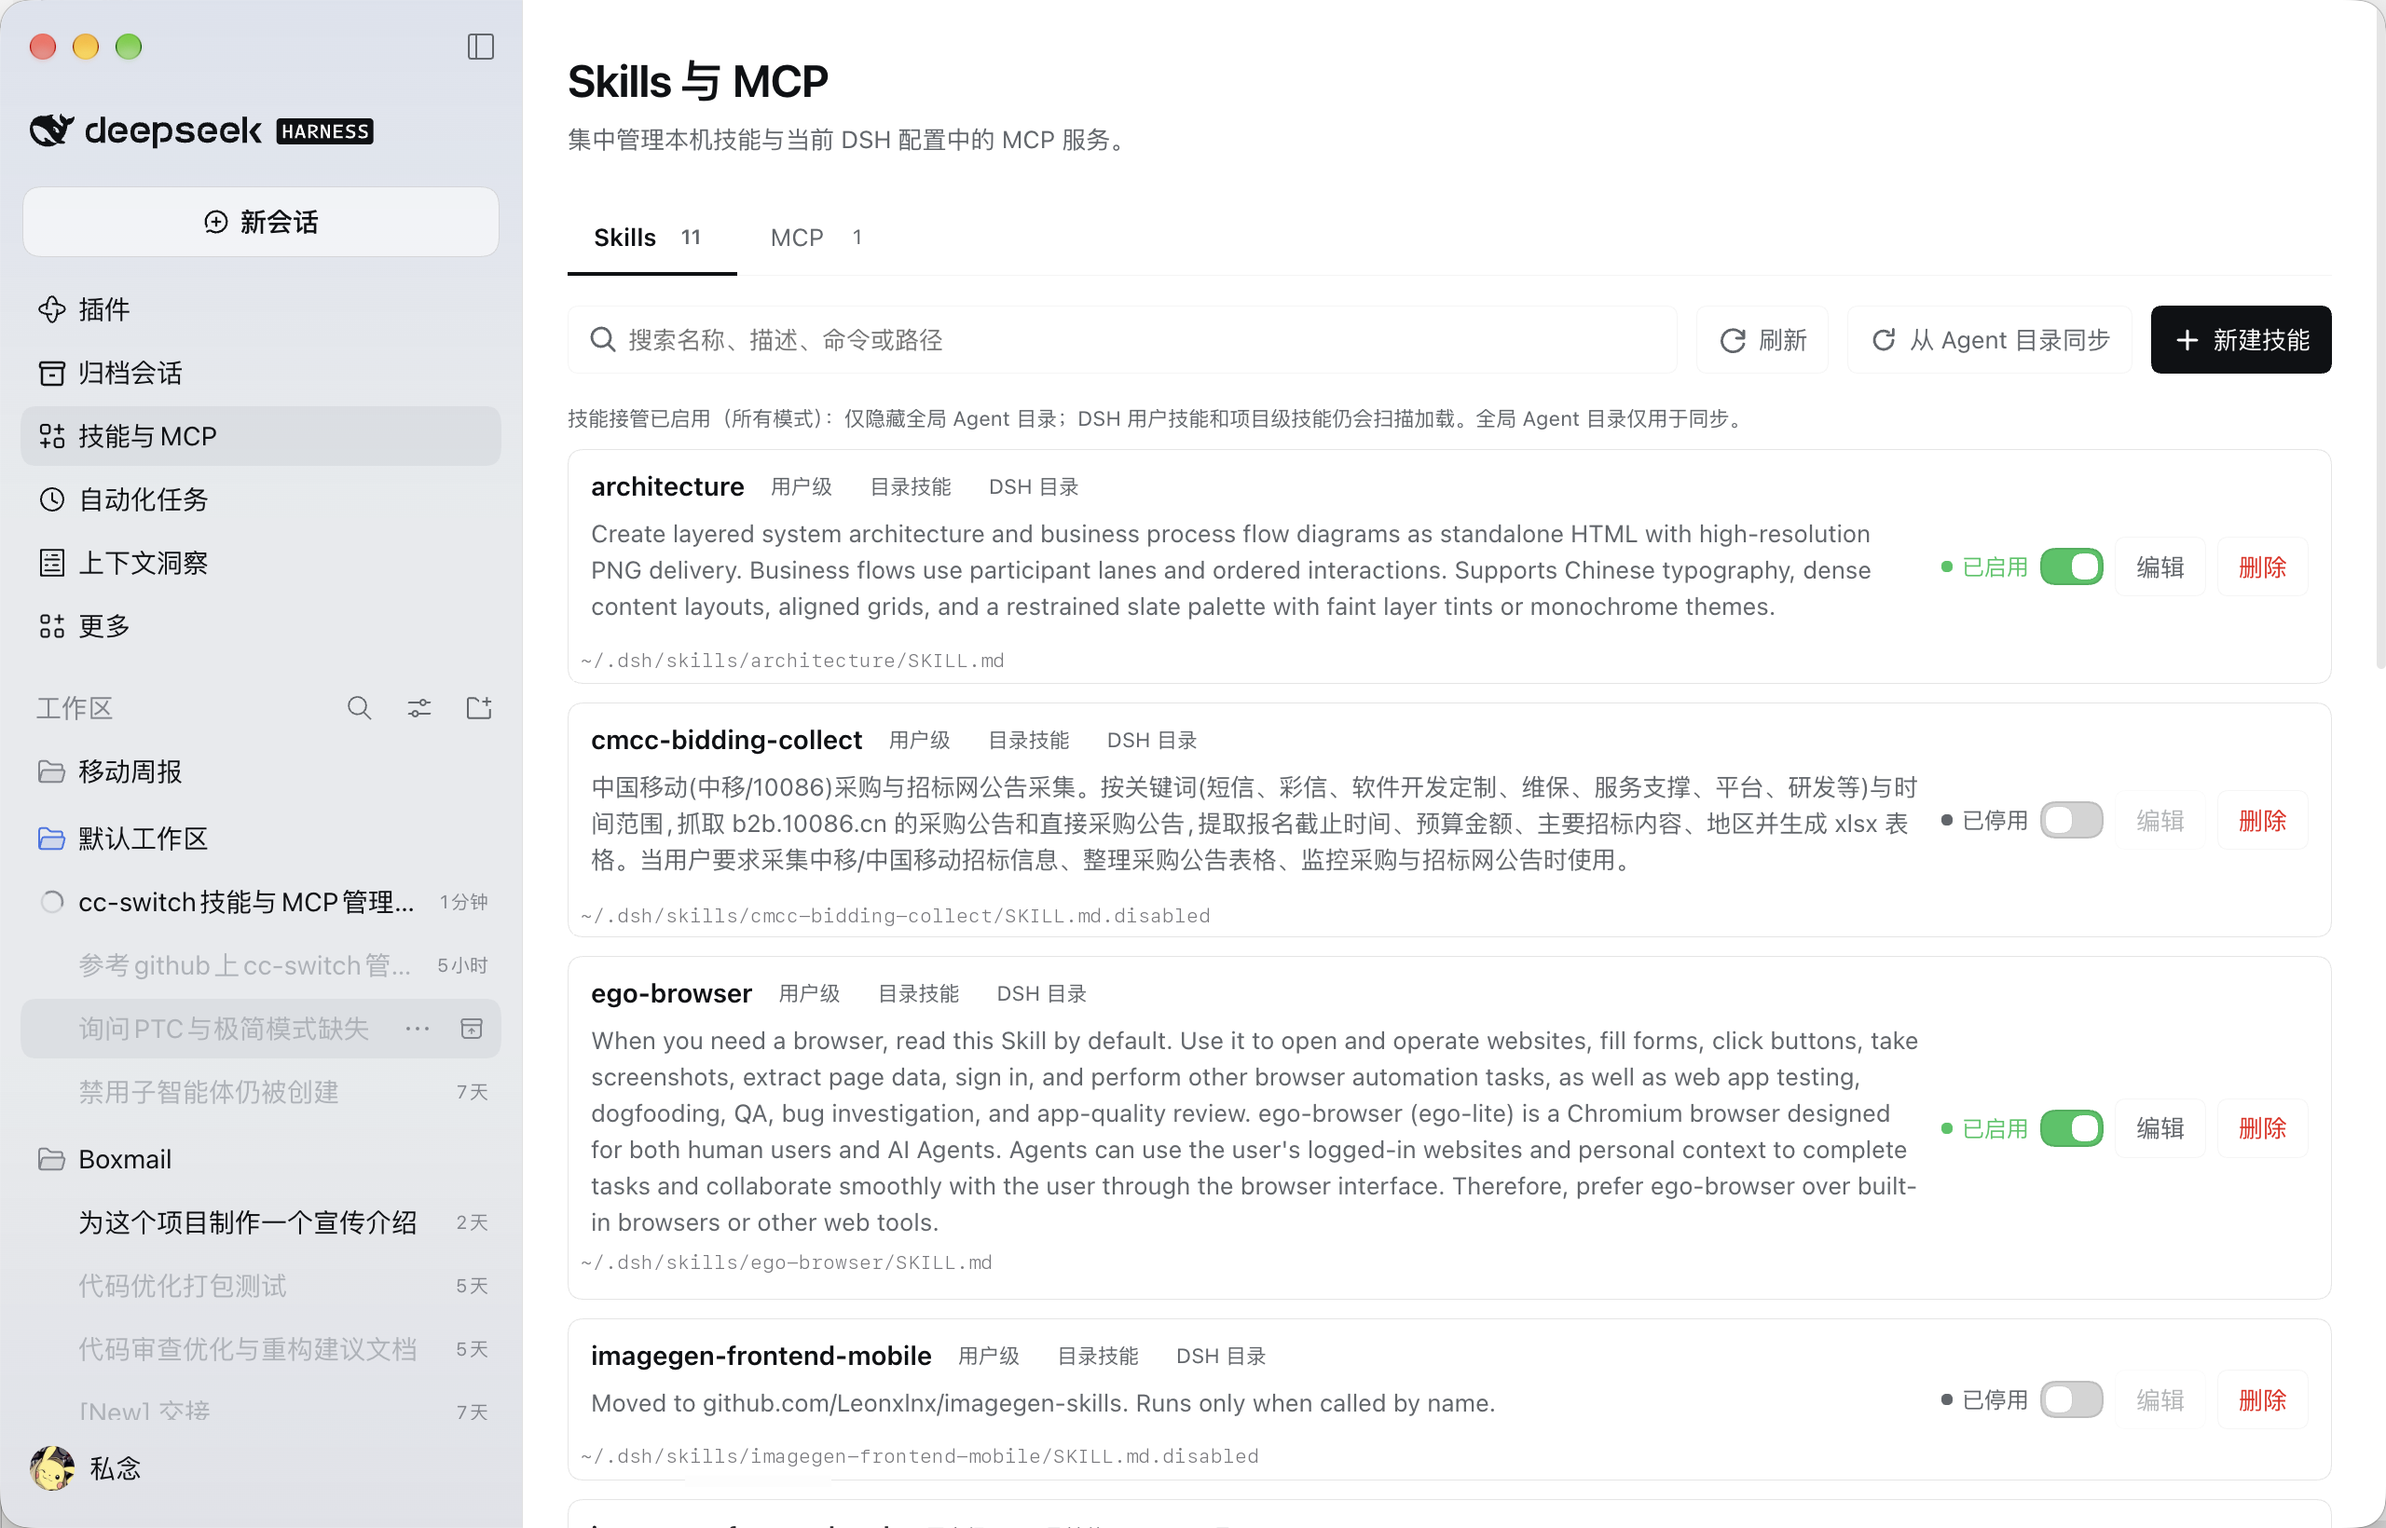
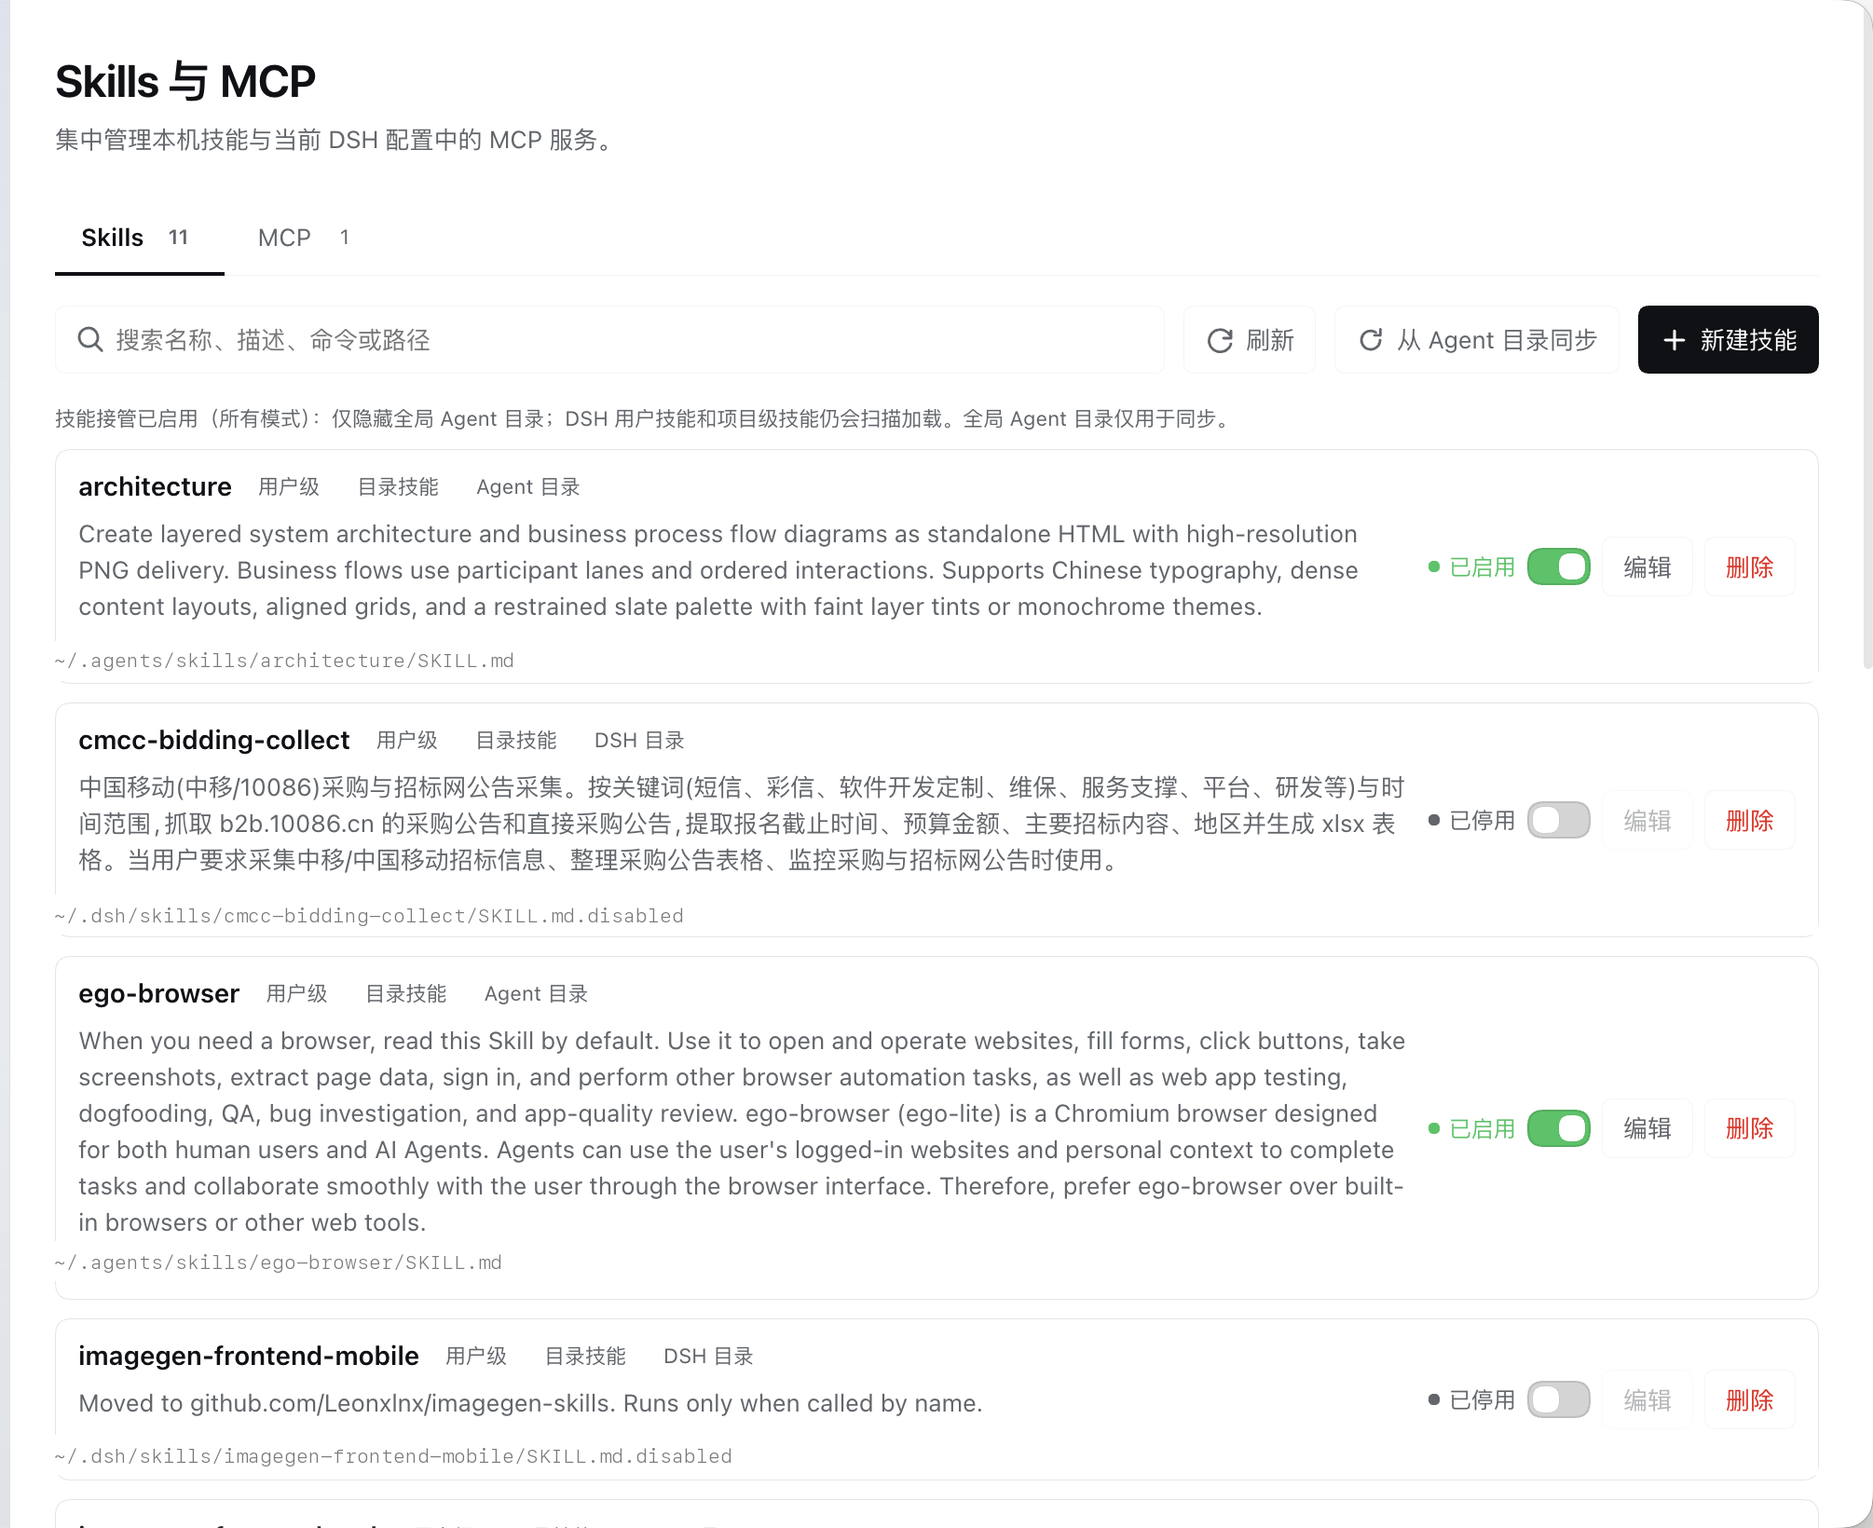
Refresh screenshots without private workspace names

diff --git a/README.md b/README.md
@@ -57,12 +57,12 @@ npm install --ignore-scripts
 
 在 DSH 中打开“插件”，选择“添加插件”，然后选择这个目录。安装完成后，左侧边栏会出现 `技能与MCP`。
 
-也可以下载 GitHub Release 中的 `dsh-capability-switch-1.2.1.tgz`，解压后按上面的目录方式安装。
+也可以下载 GitHub Release 中的 `dsh-capability-switch-1.2.2.tgz`，解压后按上面的目录方式安装。
 
 从 GitHub 固定版本安装：
 
 ```bash
-dsh plugin --profile desktop add "git+https://github.com/lock-down/dsh-capability-switch.git#v1.2.1"
+dsh plugin --profile desktop add "git+https://github.com/lock-down/dsh-capability-switch.git#v1.2.2"
 ```
 
 ## 使用

diff --git a/.github/release-notes-1.2.2.md b/.github/release-notes-1.2.2.md
@@ -1,0 +1,21 @@
+# dsh-capability-switch 1.2.2
+
+文档截图更新版本。
+
+## 变更
+
+- 重新截取 Skills 和 MCP 页面。
+- 截图裁掉左侧工作区栏，不再包含其他项目或会话名称。
+- 技能路径改为 `~` 形式，不包含本机用户名。
+
+## 安装
+
+```bash
+dsh plugin --profile desktop add "git+https://github.com/lock-down/dsh-capability-switch.git#v1.2.2"
+```
+
+也可以下载 Release 中的 `dsh-capability-switch-1.2.2.tgz`，解压后在 DSH 的“插件”页面选择“添加插件”。
+
+## 市场来源
+
+本版本可用于 Open Plugin Market 的固定 GitHub 提交收录。提交时使用标签 `v1.2.2` 指向的完整提交 SHA。

diff --git a/CHANGELOG.md b/CHANGELOG.md
@@ -1,5 +1,13 @@
 # 更新记录
 
+## 1.2.2
+
+文档截图更新。
+
+- 重新截取 Skills 和 MCP 页面。
+- 裁掉左侧工作区栏，移除其他项目和会话名称。
+- 路径改用 `~` 形式，不包含本机用户名。
+
 ## 1.2.1
 
 发布准备版本。
